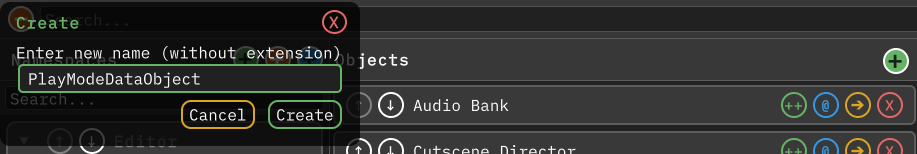
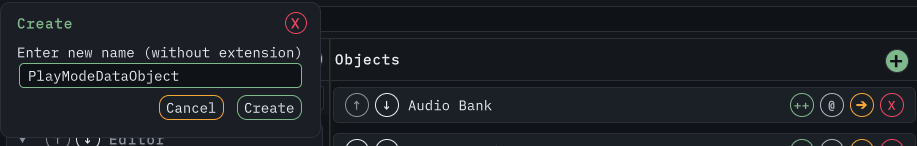
Give the docs site the Dx theme and captures (#165)
DISCLOSURE: LLM-GENERATED TEXT

**Why:** The docs site still shows the Classic palette and pre-rename
captures while the window ships Dx as the default theme.

**What:**
- Recapture all five docs screenshots in the Dx theme (#152)
- Add the Dx palette with ink dark as the site default (#149)
- Land a homepage hero, trust strip, and section cards
- Correct the theme copy to six themes with Dx first
- Cut docs CI setup time and document the fast local test loop

Fixes #152. Refs #149, #146.

<!-- CURSOR_SUMMARY -->
---

> [!NOTE]
> **Low Risk**
> Documentation, MkDocs styling, and CI caching only; no runtime package
or editor behavior changes.
> 
> **Overview**
> The published docs site now matches the **Dx** editor theme: **ink
dark** is the default Material palette (light **paper** via toggle),
with `docs/stylesheets/extra.css` mapping window tokens onto MkDocs
chrome.
> 
> The home page uses a custom `home.html` template (hero screenshot,
MIT/trust strip, Find/Inspect/Edit cards) wired from `docs/index.md`;
`mkdocs.yml` sets `site_name` to DxVisualizer, loads the overrides and
CSS, and excludes `overrides/` from published files. Screenshot **meta**
dimensions and README/docs copy describe **six** themes with **Dx** as
default and **Reset Theme** restoring Dx.
> 
> Docs CI enables **pip** caching on `requirements-docs.txt` to speed
MkDocs installs. Agent **context** documents running Unity tests and
`DocsImageCapture` through the Unity MCP host when connected.
>
[…]

diff --git a/docs/stylesheets/extra.css b/docs/stylesheets/extra.css
@@ -1,0 +1,176 @@
+/*
+    Dx theme for the docs site, translated from the window's palette in
+    Editor/DataVisualizer/Styles/Dx.uss: ink surfaces, azure accent, and the
+    family hues for warnings and positive actions. The light scheme is paper
+    (#f4f1ea) with #2a64c4 links, which meets 4.5:1 at 5.0:1.
+*/
+
+:root {
+    --dx-ink: #14171c;
+    --dx-pane: #101318;
+    --dx-namespace: #191d23;
+    --dx-border: #2a2f38;
+    --dx-text: #e9eef4;
+    --dx-muted: #8a929e;
+    --dx-accent: #5b9dff;
+    --dx-positive: #7fb88a;
+    --dx-warning: #f4a836;
+    --dx-danger: #ec4661;
+    --dx-paper: #f4f1ea;
+    --dx-paper-border: #d9d2c4;
+    --dx-paper-ink: #26292e;
+    --dx-paper-muted: #5d6167;
+    --dx-paper-link: #2a64c4;
+}
+
+[data-md-color-scheme="slate"] {
+    --md-default-bg-color: var(--dx-pane);
+    --md-default-fg-color: var(--dx-text);
+    --md-typeset-color: var(--dx-text);
+    --md-typeset-a-color: var(--dx-accent);
+    --md-accent-fg-color: var(--dx-accent);
+    --md-primary-fg-color: var(--dx-pane);
+    --md-primary-bg-color: var(--dx-text);
+    --md-header-fg-color: var(--dx-text);
+    --md-footer-bg-color: var(--dx-pane);
+    --md-footer-fg-color: var(--dx-muted);
+    --md-code-bg-color: var(--dx-ink);
+    --md-admonition-bg-color: var(--dx-namespace);
+    --md-table-row-stripe-bg: var(--dx-namespace);
+}
+
+[data-md-color-scheme="default"] {
+    --md-default-bg-color: var(--dx-paper);
+    --md-default-fg-color: var(--dx-paper-ink);
+    --md-typeset-color: var(--dx-paper-ink);
+    --md-typeset-a-color: var(--dx-paper-link);
+    --md-accent-fg-color: var(--dx-paper-link);
+    --md-primary-fg-color: var(--dx-paper);
+    --md-primary-bg-color: var(--dx-paper-ink);
+    --md-header-fg-color: var(--dx-paper-ink);
+    --md-footer-bg-color: var(--dx-paper-border);
+    --md-footer-fg-color: var(--dx-paper-ink);
+    --md-code-bg-color: #eae5d9;
+    --md-admonition-bg-color: #ece8dd;
+}
+
+/* Header and footer take the pane ground so the chrome reads as ink. */
+.md-header {
+    box-shadow: 0 1px 0 var(--dx-border);
+}
+
+[data-md-color-scheme="default"] .md-header {
+    box-shadow: 0 1px 0 var(--dx-paper-border);
+}
+
+/* The active nav entry sits in a contained pill instead of plain bold text. */
+.md-nav__link--active {
+    border-radius: 8px;
+    padding-left: 0.4rem;
+    padding-right: 0.4rem;
+    background: color-mix(in srgb, var(--dx-accent) 14%, transparent);
+}
+
+[data-md-color-scheme="default"] .md-nav__link--active {
+    background: color-mix(in srgb, var(--dx-paper-link) 12%, transparent);
+}
+
+/* Admonitions lose the Material left accent bar; they carry a full border. */
+.md-typeset .admonition,
+.md-typeset details.admonition {
+    border: 1px solid var(--dx-border);
+    border-left: 1px solid var(--dx-border);
+    border-radius: 8px;
+    box-shadow: none;
+}
+
+[data-md-color-scheme="default"] .md-typeset .admonition,
+[data-md-color-scheme="default"] .md-typeset details.admonition {
+    border-color: var(--dx-paper-border);
+}
+
+/* Homepage landing: hero capture, trust strip, then three cards. */
+.dx-hero {
+    margin: 0 0 1.2rem;
+}
+
+.dx-hero img {
+    width: 100%;
+    height: auto;
+    border: 1px solid var(--dx-border);
+    border-radius: 10px;
+    background: var(--dx-ink);
+}
+
+[data-md-color-scheme="default"] .dx-hero img {
+    border-color: var(--dx-paper-border);
+}
+
+.dx-hero-caption {
+    margin: 0.4rem 0 0;
+    color: var(--dx-muted);
+    font-size: 0.72rem;
+}
+
+[data-md-color-scheme="default"] .dx-hero-caption {
+    color: var(--dx-paper-muted);
+}
+
+.dx-trust {
+    margin: 0 0 1.2rem;
+    padding: 0.6rem 0.8rem;
+    border: 1px solid var(--dx-border);
+    border-radius: 8px;
+    color: var(--dx-text);
+    font-weight: 700;
+}
+
+[data-md-color-scheme="default"] .dx-trust {
+    border-color: var(--dx-paper-border);
+    color: var(--dx-paper-ink);
+}
+
+.dx-cards {
+    display: grid;
+    grid-template-columns: repeat(3, minmax(0, 1fr));
+    gap: 0.6rem;
+    margin: 0 0 1.6rem;
+}
+
+.dx-card {
+    display: flex;
+    flex-direction: column;
+    gap: 0.2rem;
+    padding: 0.8rem;
+    border: 1px solid var(--dx-border);
+    border-radius: 10px;
+    color: var(--md-typeset-color);
+    background: var(--dx-namespace);
+}
+
+.dx-card:hover {
+    border-color: var(--dx-accent);
+}
+
+[data-md-color-scheme="default"] .dx-card {
+    border-color: var(--dx-paper-border);
+    background: #ece8dd;
+}
+
+[data-md-color-scheme="default"] .dx-card:hover {
+    border-color: var(--dx-paper-link);
+}
+
+.dx-card strong {
+    color: var(--dx-accent);
+}
+
+[data-md-color-scheme="default"] .dx-card strong {
+    color: var(--dx-paper-link);
+}
+
+@media screen and (max-width: 40rem) {
+    .dx-cards {
+        grid-template-columns: 1fr;
+    }
+}

diff --git a/docs/overrides/home.html b/docs/overrides/home.html
@@ -1,0 +1,31 @@
+{#-
+    Homepage landing for the Dx theme: hero capture, trust strip, three cards,
+    then the index.md content. docs/index.md selects this template through its
+    `template: home.html` front matter; exclude_docs keeps the file itself out
+    of the built site.
+-#}
+{% extends "base.html" %}
+{% block content %}
+<section class="dx-hero">
+    <img src="{{ 'images/data-visualizer-layout.png' | url }}" width="1180" height="780"
+        alt="DxVisualizer layout with namespace, object, and inspector columns" loading="eager" />
+    <p class="dx-hero-caption">The full window: the namespace catalog, the instance list, and the inspector. Captured
+        from the live window by the docs capture pipeline.</p>
+</section>
+<p class="dx-trust">Free forever — no subscriptions, no paid upgrades, no feature-gated tiers. MIT-licensed.</p>
+<section class="dx-cards">
+    <a class="dx-card" href="{{ 'search-and-filter/' | url }}">
+        <strong>Find</strong>
+        <span>Search types, add a namespace, or scan a folder.</span>
+    </a>
+    <a class="dx-card" href="{{ 'getting-started/' | url }}">
+        <strong>Inspect</strong>
+        <span>Edit assets in the inspector you already know.</span>
+    </a>
+    <a class="dx-card" href="{{ 'managing-assets/' | url }}">
+        <strong>Edit</strong>
+        <span>Clone, rename, move, delete, and run processors.</span>
+    </a>
+</section>
+{{ super() }}
+{% endblock %}

diff --git a/README.md b/README.md
@@ -22,7 +22,7 @@ back into your workflow immediately.
 
 ## Window Layout
 
-![Data Visualizer layout with namespace, object, and inspector columns](https://raw.githubusercontent.com/wallstop/DataVisualizer/main/docs/images/data-visualizer-layout.png) _Full
+![DxVisualizer layout with namespace, object, and inspector columns](https://raw.githubusercontent.com/wallstop/DataVisualizer/main/docs/images/data-visualizer-layout.png) _Full
 window overview. Regenerated from the live window by the docs capture pipeline._
 
 The window uses a three-panel layout:
@@ -65,7 +65,7 @@ Chain create with rename or move to place new assets exactly where you need them
 
 ## Building Your Type Catalog
 
-![Manage-visible-types popover listing the project's ScriptableObject types](https://raw.githubusercontent.com/wallstop/DataVisualizer/main/docs/images/data-visualizer-import.png)
+![Manage-visible-types popover listing the project's namespaces and their types](https://raw.githubusercontent.com/wallstop/DataVisualizer/main/docs/images/data-visualizer-import.png)
 _Type search popover over the namespace panel. Regenerated from the live window by the docs capture pipeline._
 
 Three controls above the Namespace panel populate your catalog:
@@ -115,21 +115,22 @@ DxVisualizer creates one at `Assets/Editor/DataVisualizerSettings.asset` on firs
 
 ### Themes
 
-**Classic**, **Nord**, **Dracula**, **Compact**, and **Minimal** ship under `Editor/DataVisualizer/Styles` in the package. In **Settings → Theme**, click the current theme to open
-a searchable dropdown. Search by name or asset path, use Up/Down and Enter to select, or press Escape to cancel. Themes in both Assets and Packages are listed; duplicate names show
-their paths. Classic uses the original palette, Nord uses blue-gray surfaces and cyan accents, and Dracula uses dark surfaces and purple accents. Compact and Minimal keep the
-Classic palette and shrink the density: window typography, action buttons, and control chrome. Compact uses 13px type with 20px action buttons and 4px control radii; Minimal uses
-12px type with 16px action buttons and square control corners. These editor-only assets and their stylesheets are included in the package, not an optional sample.
+**Dx**, **Classic**, **Nord**, **Dracula**, **Compact**, and **Minimal** ship under `Editor/DataVisualizer/Styles` in the package. In **Settings → Theme**, click the current theme
+to open a searchable dropdown. Search by name or asset path, use Up/Down and Enter to select, or press Escape to cancel. Themes in both Assets and Packages are listed; duplicate
+names show their paths. Dx is the default and uses ink-dark surfaces with an azure accent, Classic uses the original palette, Nord uses blue-gray surfaces and cyan accents, and
+Dracula uses dark surfaces and purple accents. Compact and Minimal keep the Classic palette and shrink the density: window typography, action buttons, and control chrome. Compact
+uses 13px type with 20px action buttons and 4px control radii; Minimal uses 12px type with 16px action buttons and square control corners. These editor-only assets and their
+stylesheets are included in the package, not an optional sample.
 
 The palettes style the window background and text, lists, search results, popovers, label and processor panels, dividers, and standard UI Toolkit inputs, buttons, foldouts,
 toggles, scrollers, and inspector surfaces. Action colors remain distinct: danger for delete, positive for create/clone/confirm, secondary for rename/script-folder loading, warning
-for cancel/move, and emphasis for alternate toggle modes. **Reset Theme** keeps the compact Data Folder button sizing, clears the saved selection, and restores Classic. Selecting
-the Classic asset gives the same appearance but keeps an explicit selection.
+for cancel/move, and emphasis for alternate toggle modes. **Reset Theme** keeps the compact Data Folder button sizing, clears the saved selection, and restores Dx. Selecting the Dx
+asset gives the same appearance but keeps an explicit selection.
 
 Create a theme with **Assets → Create → Wallstop Studios → DxVisualizer → DxVisualizer Theme**. Assign a `.uss` asset to its **Style Sheet** field, then choose the theme in the
 window's **Settings → Theme** field. Keep your theme and stylesheet under an `Editor` folder; they are editor-only assets.
 
-The selected theme follows the existing project/user persistence setting. Switching that setting copies the current selection. Choose **Classic (Default / Reset)** or use **Reset
+The selected theme follows the existing project/user persistence setting. Switching that setting copies the current selection. Choose **Dx (Default / Reset)** or use **Reset
 Theme** to restore the package style. A missing theme falls back to the package style without discarding its saved GUID; reset clears that reference too.
 
 For example, this stylesheet changes the accent, standard button states, window font size, and action-button size:

diff --git a/docs/organizing.md b/docs/organizing.md
@@ -73,14 +73,15 @@ pipeline._
 
 ## Themes
 
-Five themes ship in the package: **Classic**, **Nord**, **Dracula**, **Compact**, and **Minimal**. Compact and Minimal keep the Classic palette and shrink the density: Compact uses
-13px type, 20px action buttons, and 4px control corners; Minimal uses 12px type, 16px action buttons, and square corners.
+Six themes ship in the package: **Dx**, Classic, Nord, Dracula, Compact, and Minimal. Dx is the default: ink-dark surfaces with an azure accent, and the family hues for actions.
+Compact and Minimal keep the Classic palette and shrink the density: Compact uses 13px type, 20px action buttons, and 4px control corners; Minimal uses 12px type, 16px action
+buttons, and square corners.
 
 Click the theme field to open a searchable dropdown. Search by name or asset path, use Up and Down to move, Enter to select, Escape to cancel. Themes from both `Assets` and
 `Packages` are listed, and a duplicate name shows its path so you can tell them apart.
 
-**Reset Theme** restores the Classic appearance and clears the saved theme selection, keeping the compact Data Folder button sizing. Selecting the Classic asset gives the same
-appearance but keeps an explicit selection.
+**Reset Theme** restores the Dx appearance and clears the saved theme selection, keeping the compact Data Folder button sizing. Selecting the Dx asset gives the same appearance but
+keeps an explicit selection.
 
 ### Your own theme
 
@@ -104,7 +105,7 @@ Override the tokens you need rather than restyling controls:
 }
 ```
 
-Use `Nord.uss` or `Dracula.uss` as palette references. Copy them under your project's `Editor` folder before customizing rather than editing installed package files.
+Use `Dx.uss`, `Nord.uss`, or `Dracula.uss` as palette references. Copy them under your project's `Editor` folder before customizing rather than editing installed package files.
 
 Theme changes apply to the open window without reselecting or reopening it. Editing the applied theme's stylesheet, changing its Style Sheet reference, and renaming or moving
 either asset all update immediately. Deleting the applied theme falls back to the package style without discarding the saved GUID; reset clears that reference too.

diff --git a/.llm/context.md b/.llm/context.md
@@ -138,7 +138,9 @@ See the generated [Skills Index](./skills/index.md). Regenerate it after adding 
 ### Validation Ladder (Run After Each Change)
 
 Per-iteration speed: run `npm run check:fast` first (formats and lints only the files changed since `origin/main`, and skips harness self-tests when their surface is unchanged).
-The full ladder below gates review.
+When a Unity MCP host is connected (host bridge: `npm run unity:mcp:host`), run Unity suites through it instead of launching batchmode: `tools.unity.run_tests` with a fixture-name
+`filter` returns per-test results in seconds (measured 7s for 65 `MonitorUtilityTests` on the 6000.5 host), and `tools.unity.eval` can invoke `Tests/Editor/DocsImageCapture` entry
+points for docs captures. Keep eval return values simple strings; the eval wrapper mis-handles heavier reflective results. The full ladder below gates review.
 
 ```bash
 dotnet tool restore

diff --git a/docs/index.md b/docs/index.md
@@ -1,3 +1,7 @@
+---
+template: home.html
+---
+
 # DxVisualizer
 
 DxVisualizer is a Unity editor window for ScriptableObject-heavy projects. It gathers your data in one place: a catalog of your ScriptableObject types organized by namespace, a
@@ -6,10 +10,6 @@ Inspector.
 
 DxVisualizer is free forever. There are no subscriptions, no paid upgrades, and no feature-gated tiers. The full source is MIT-licensed, and every capability described here ships
 in the free package.
-
-![Data Visualizer layout with namespace, object, and inspector columns](images/data-visualizer-layout.png)
-
-_Full window overview. Regenerated from the live window by the docs capture pipeline._
 
 ## What it does
 

diff --git a/CHANGELOG.md b/CHANGELOG.md
@@ -15,6 +15,7 @@ The format is based on [Keep a Changelog](https://keepachangelog.com/en/1.1.0/),
 
 - Renamed to DxVisualizer: display name, window title, and menu paths (**Tools → Wallstop Studios → DxVisualizer**). Namespaces, types, package name, saved state, and theme tokens
   are unchanged, so projects upgrade without edits (#147).
+- The documentation site ships the Dx palette with ink dark as the default, a landing hero, and screenshots recaptured from the live window in the Dx theme (#149, #152).
 
 ### Fixed
 

diff --git a/docs/getting-started.md b/docs/getting-started.md
@@ -35,7 +35,7 @@ Three controls above the namespace panel fill the catalog:
 
 Removing a type or namespace only stops DxVisualizer from tracking it. Your assets stay on disk.
 
-![Manage-visible-types popover listing the project's ScriptableObject types](images/data-visualizer-import.png)
+![Manage-visible-types popover listing the project's namespaces and their types](images/data-visualizer-import.png)
 
 _Type search popover over the namespace panel. Regenerated from the live window by the docs capture pipeline._
 
